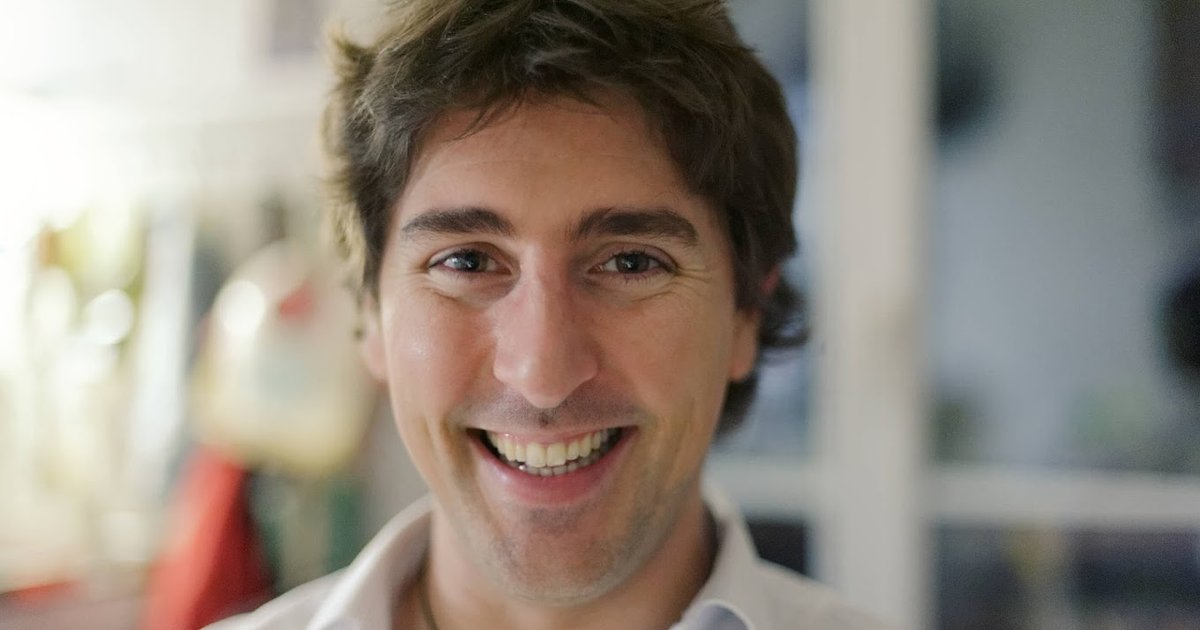
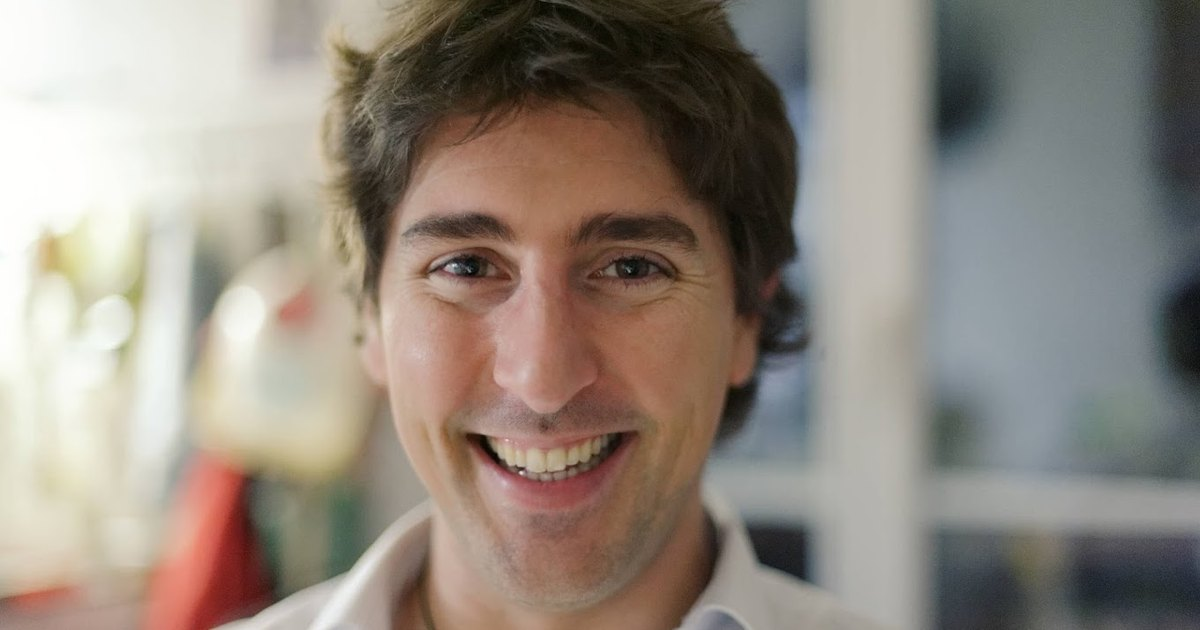
Add files via upload

diff --git a/index.html b/index.html
@@ -20,6 +20,7 @@
     <meta name="twitter:title" content="Ostéopathe Paris 7 (75007) — Nicolas Mildner D.O." />
     <meta name="twitter:description" content="Ostéopathe D.O. à Paris 7 depuis 2004. 72 avenue de la Bourdonnais, 75007 Paris." />
     <meta name="twitter:image" content="https://www.nicolas-mildner-osteopathe.fr/img/nicolas-mildner-og.jpg" />
+    <meta name="robots" content="index, follow, max-image-preview:large, max-snippet:-1, max-video-preview:-1" />
     <link rel="canonical" href="https://www.nicolas-mildner-osteopathe.fr/" />
 
     <script type="application/ld+json" id="ld-cabinet">
@@ -31,7 +32,13 @@
   "alternateName": "Cabinet Bourdonnais — Ostéopathe Paris 7 (75007)",
   "description": "Cabinet d'ostéopathie à Paris 7 (75007), 72 avenue de la Bourdonnais. 22 ans d'expérience clinique, 17 ans d'enseignement. Approche systémique et neurovégétative, pratique douce sans craquement. 18 spécialisations.",
   "url": "https://www.nicolas-mildner-osteopathe.fr/",
-  "image": "https://www.nicolas-mildner-osteopathe.fr/img/nicolas-mildner-osteopathe.jpg",
+  "image": {
+    "@type": "ImageObject",
+    "url": "https://www.nicolas-mildner-osteopathe.fr/img/nicolas-mildner-osteopathe.jpg",
+    "width": 1200,
+    "height": 798,
+    "caption": "Nicolas Mildner, ostéopathe D.O. à Paris 7 (75007)"
+  },
   "logo": "https://www.nicolas-mildner-osteopathe.fr/img/nicolas-mildner-osteopathe.jpg",
   "telephone": "+33142021118",
   "address": {
@@ -147,7 +154,13 @@
   "@id": "https://www.nicolas-mildner-osteopathe.fr/#nicolas-mildner",
   "name": "Nicolas Mildner",
   "url": "https://www.nicolas-mildner-osteopathe.fr/",
-  "image": "https://www.nicolas-mildner-osteopathe.fr/img/nicolas-mildner-osteopathe.jpg",
+  "image": {
+    "@type": "ImageObject",
+    "url": "https://www.nicolas-mildner-osteopathe.fr/img/nicolas-mildner-osteopathe.jpg",
+    "width": 1200,
+    "height": 798,
+    "caption": "Nicolas Mildner, ostéopathe D.O. à Paris 7 (75007)"
+  },
   "jobTitle": "Ostéopathe D.O., D.O.E., D.O.F.",
   "telephone": "+33142021118",
   "description": "Ostéopathe à Paris 7 (75007) depuis 2004. D.O. n°00379 de la Collégiale Académique de France. D.O.E. validé devant la Faculté de Médecine de Genève. 17 ans d'enseignement à l'ESO Paris (2004-2020). Filiation directe : Viola Frymann, John Wernham, Serge Paoletti, Roger Caporossi, René Briend.",

diff --git a/src/OsteopatheParis7.jsx b/src/OsteopatheParis7.jsx
@@ -99,7 +99,7 @@ export default function OsteopatheParis7() {
             Cabinet à deux pas de l'École Militaire, du Champ-de-Mars et des Invalides.
           </p>
           <div style={{display:"flex",alignItems:"center",gap:18,marginBottom:28,background:"rgba(255,255,255,0.65)",backdropFilter:"blur(8px)",borderRadius:14,padding:mob?"16px 16px":"18px 24px",border:"1px solid rgba(184,149,106,0.1)",maxWidth:mob?undefined:480}}>
-            <img src="/img/nicolas-mildner-osteopathe.jpg" alt="Nicolas Mildner — Ostéopathe D.O. Paris 7e" width="80" height="80" style={{width:80,height:80,borderRadius:"50%",objectFit:"cover",border:`2.5px solid ${C.gold}`,flexShrink:0}}/>
+            <img src="/img/nicolas-mildner-avatar.jpg" alt="Nicolas Mildner — ostéopathe D.O. à Paris 7 (75007)" width="80" height="80" decoding="async" style={{width:80,height:80,borderRadius:"50%",objectFit:"cover",border:`2.5px solid ${C.gold}`,flexShrink:0}}/>
             <div>
               <p style={{fontFamily:F.h,fontSize:mob?16:18,color:C.navy,fontWeight:500}}>Nicolas Mildner</p>
               <p style={{fontSize:11,color:C.gold,letterSpacing:1.5,textTransform:"uppercase",marginTop:2}}>Ostéopathe D.O. · D.O.E. · D.O.F.</p>
@@ -196,7 +196,7 @@ export default function OsteopatheParis7() {
               22 ans de pratique clinique au service de vos patients du 7e arrondissement.
             </p>
             <div style={{marginTop:24}}>
-              <img src="/img/nicolas-mildner-osteopathe.jpg" alt="Nicolas Mildner — Ostéopathe D.O. au cabinet de Paris 7e" width={mob?180:240} height={mob?120:160} style={{borderRadius:12,objectFit:"cover",border:"2px solid rgba(184,149,106,0.25)",boxShadow:"0 8px 32px rgba(0,0,0,0.2)"}}/>
+              <img src="/img/nicolas-mildner-osteopathe.jpg" alt="Nicolas Mildner, ostéopathe D.O. au cabinet du 72 avenue de la Bourdonnais, Paris 7 (75007)" width={mob?180:240} height={mob?120:160} decoding="async" fetchPriority="high" style={{borderRadius:12,objectFit:"cover",border:"2px solid rgba(184,149,106,0.25)",boxShadow:"0 8px 32px rgba(0,0,0,0.2)"}}/>
             </div>
           </div>
           <div style={{display:"grid",gridTemplateColumns:mob?"1fr":"1fr 1fr",gap:28}}>

diff --git a/src/Blog.jsx b/src/Blog.jsx
@@ -101,7 +101,7 @@ export default function Blog({ onBack, initialPost }) {
           <p style={{ fontSize: 11, letterSpacing: 3, textTransform: "uppercase", color: C.gold, marginBottom: 12 }}>{post.tag} · {post.readTime}</p>
           <h1 style={{ fontFamily: F.h, fontSize: 36, color: C.navy, lineHeight: 1.3, marginBottom: 16 }}>{post.title}</h1>
           <div style={{ display: "flex", alignItems: "center", gap: 12, marginBottom: 32 }}>
-            <img src="/img/nicolas-mildner-osteopathe.jpg" alt="Nicolas Mildner" width="36" height="36" style={{ width: 36, height: 36, borderRadius: "50%", objectFit: "cover", border: "1.5px solid rgba(184,149,106,0.25)" }}/>
+            <img src="/img/nicolas-mildner-avatar.jpg" alt="Nicolas Mildner, ostéopathe D.O. Paris 7" width="36" height="36" loading="lazy" decoding="async" style={{ width: 36, height: 36, borderRadius: "50%", objectFit: "cover", border: "1.5px solid rgba(184,149,106,0.25)" }}/>
             <p style={{ fontSize: 13, color: C.muted }}>Publié le {new Date(post.date).toLocaleDateString("fr-FR", { day: "numeric", month: "long", year: "numeric" })} · Nicolas Mildner, Ostéopathe D.O.</p>
           </div>
 
@@ -181,7 +181,7 @@ export default function Blog({ onBack, initialPost }) {
             borderRadius: 12, display: "flex", gap: 20, alignItems: "center",
             border: "1px solid rgba(184,149,106,0.08)",
           }}>
-            <img src="/img/nicolas-mildner-osteopathe.jpg" alt="Nicolas Mildner — Ostéopathe D.O. Paris 7e" width="56" height="56" style={{
+            <img src="/img/nicolas-mildner-avatar.jpg" alt="Nicolas Mildner — ostéopathe D.O. à Paris 7 (75007)" width="56" height="56" loading="lazy" decoding="async" style={{
               width: 56, height: 56, borderRadius: "50%", objectFit: "cover",
               border: "2px solid rgba(184,149,106,0.3)", flexShrink: 0,
             }}/>

diff --git a/src/LocalSpecPage.jsx b/src/LocalSpecPage.jsx
@@ -93,7 +93,7 @@ export default function LocalSpecPage() {
           <h1 style={{fontFamily:F.h,fontSize:mob?26:40,fontWeight:500,color:C.navy,lineHeight:1.2,marginBottom:12}}>{page.h1}</h1>
           <p style={{fontSize:mob?14:17,lineHeight:1.8,color:"#555",marginBottom:24,maxWidth:700}}>{page.subtitle}</p>
           <div style={{display:"flex",alignItems:"center",gap:18,marginBottom:28,background:"rgba(255,255,255,0.65)",backdropFilter:"blur(8px)",borderRadius:14,padding:mob?"16px 16px":"18px 24px",border:"1px solid rgba(184,149,106,0.1)",maxWidth:mob?undefined:480}}>
-            <img src="/img/nicolas-mildner-osteopathe.jpg" alt="Nicolas Mildner — Ostéopathe D.O. Paris 7e" width="80" height="80" style={{width:80,height:80,borderRadius:"50%",objectFit:"cover",border:`2.5px solid ${C.gold}`,flexShrink:0}}/>
+            <img src="/img/nicolas-mildner-avatar.jpg" alt="Nicolas Mildner — ostéopathe D.O. à Paris 7 (75007)" width="80" height="80" decoding="async" style={{width:80,height:80,borderRadius:"50%",objectFit:"cover",border:`2.5px solid ${C.gold}`,flexShrink:0}}/>
             <div>
               <p style={{fontFamily:F.h,fontSize:mob?16:18,color:C.navy,fontWeight:500}}>Nicolas Mildner</p>
               <p style={{fontSize:11,color:C.gold,letterSpacing:1.5,textTransform:"uppercase",marginTop:2}}>Ostéopathe D.O. · D.O.E. · D.O.F.</p>

diff --git a/src/Site.jsx b/src/Site.jsx
@@ -179,7 +179,7 @@ export default function Site({ onBlog }){
             {/* Portrait + Stats card */}
             <div>
               <div style={{textAlign:"center",marginBottom:20}}>
-                <img src="/img/nicolas-mildner-osteopathe.jpg" alt="Nicolas Mildner — Ostéopathe D.O. à Paris 7e — Cabinet Bourdonnais" width={mob?200:280} height={mob?133:186} style={{borderRadius:12,objectFit:"cover",border:`2px solid ${C.gold}`,boxShadow:"0 8px 32px rgba(26,43,74,0.12)"}} loading="eager"/>
+                <img src="/img/nicolas-mildner-osteopathe.jpg" alt="Nicolas Mildner, ostéopathe D.O. à Paris 7 (75007) — Cabinet Bourdonnais, 72 avenue de la Bourdonnais" width={mob?200:280} height={mob?133:186} decoding="async" fetchPriority="high" style={{borderRadius:12,objectFit:"cover",border:`2px solid ${C.gold}`,boxShadow:"0 8px 32px rgba(26,43,74,0.12)"}} loading="eager"/>
                 <p style={{fontSize:11,color:C.muted,marginTop:8,fontStyle:"italic"}}>Nicolas Mildner — au cabinet, Paris 7e</p>
               </div>
               <div style={{background:"rgba(255,255,255,0.7)",backdropFilter:"blur(12px)",borderRadius:16,padding:"32px 28px",border:"1px solid rgba(184,149,106,0.1)"}}>
